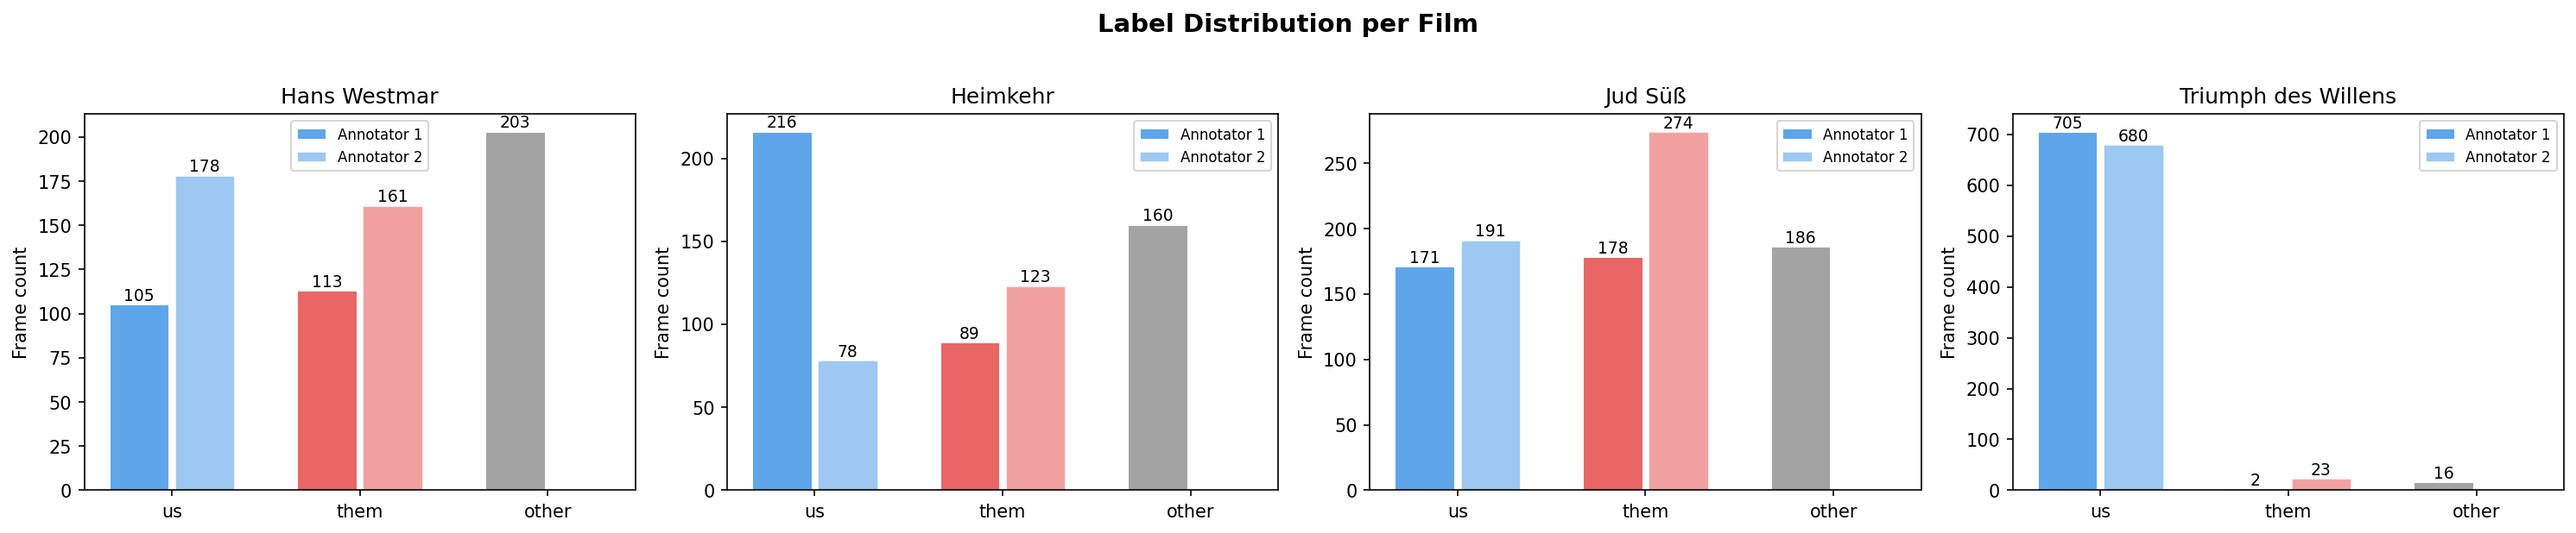
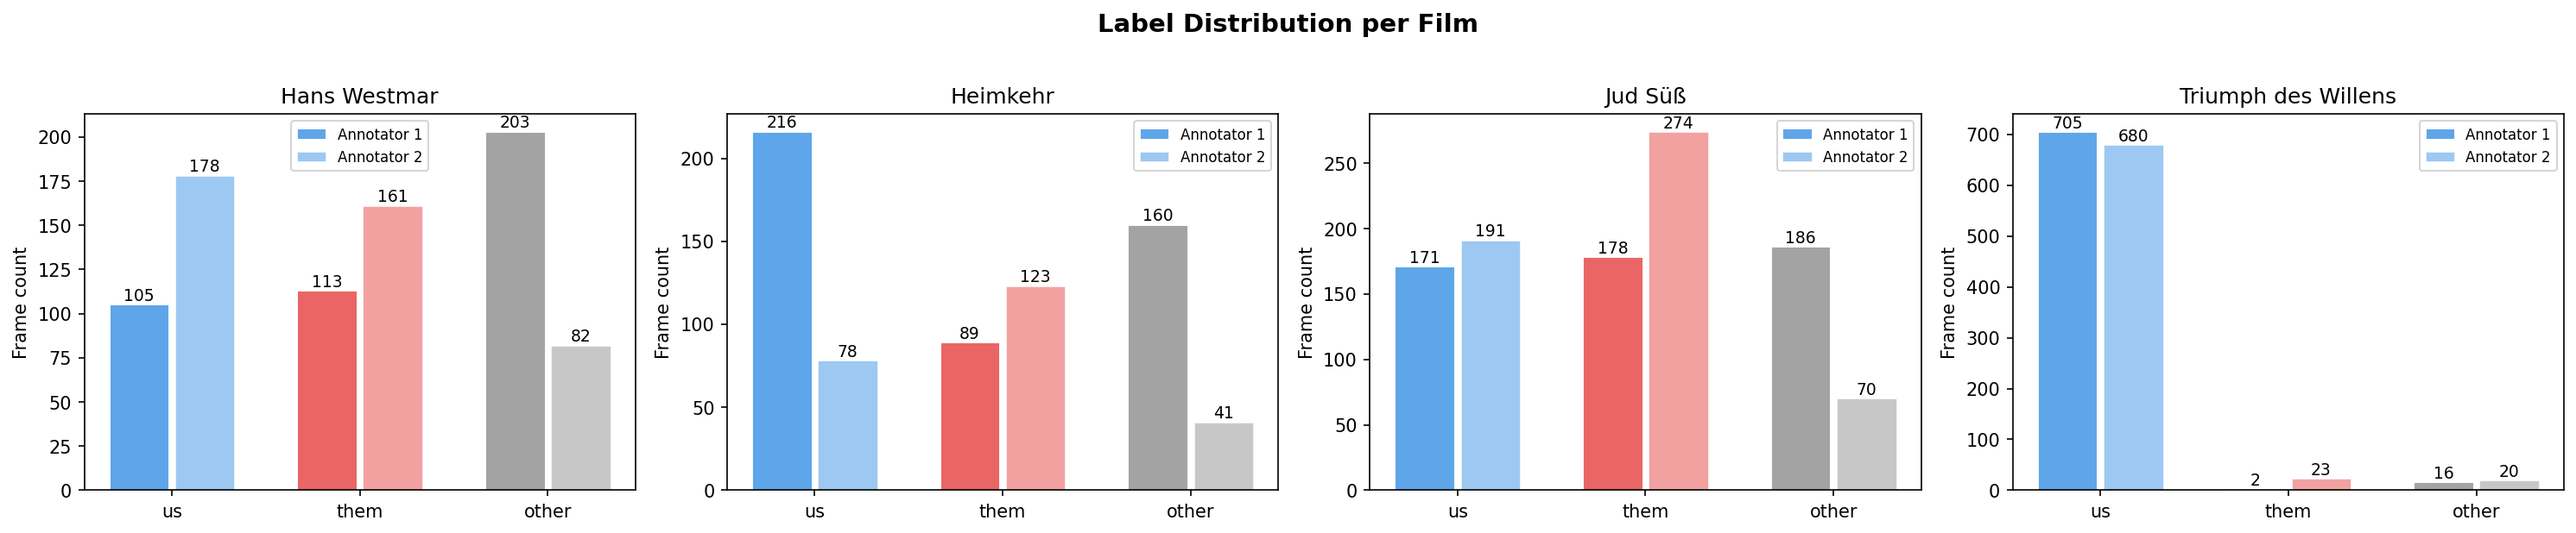
extended annotation statistics by PABAK for better interpretation

diff --git a/scripts/annotation_stats.py b/scripts/annotation_stats.py
@@ -50,10 +50,12 @@ ANNOTATION_FILES = [
 #DEFAULT_ANNOTATOR_NAME = "annotator_2"
 ANNOTATOR_ALIASES = {
     "Kevin" : "Annotator 1",
-    "Felix" : "Annotator 2"
+    "Felix" : "Annotator 2",
+    "annotator_2" : "Annotator 1" #corrects a wrong assignment in the manual annotations
 }
 # Default label for frames with missing labels (applied in-memory only, not saved)
 DEFAULT_LABEL = "other"
+LABELS_TO_REPLACE = ["neutral"]
 
 # Output directory for plots
 OUTPUT_DIR = "../results/annotation_overview"
@@ -85,6 +87,12 @@ def load_annotations(annotation_files):
             n_missing = df["label"].isna().sum()
             df["label"] = df["label"].fillna(DEFAULT_LABEL)
             print(f"Note: filled {n_missing} missing label(s) in '{csv_path}' with '{DEFAULT_LABEL}' (in-memory only)")
+
+        mask = df["label"].isin(LABELS_TO_REPLACE)
+        if mask.any():
+            print(
+                f"Note: replaced {mask.sum()} '{df.loc[mask, 'label'].unique().tolist()}' label(s) in '{csv_path}' with '{DEFAULT_LABEL}' (in-memory only)")
+            df.loc[mask, "label"] = DEFAULT_LABEL
 
         # Extract frame identifier (filename only, so annotators match on the same frame)
         df["frame_id"] = df["frame_path"].apply(lambda p: Path(p).stem)
@@ -187,6 +195,8 @@ def compute_agreement(df, output_dir):
     """Compute and display inter-annotator agreement per film."""
     films = sorted(df["film"].unique())
     results = []
+    all_labels1 = []  # collect for pooled metrics
+    all_labels2 = []
 
     for film in films:
         film_df = df[df["film"] == film]
@@ -209,11 +219,21 @@ def compute_agreement(df, output_dir):
         labels1 = df1.loc[common, "label"].values
         labels2 = df2.loc[common, "label"].values
 
+        # Collect for pooled computation
+        all_labels1.extend(labels1)
+        all_labels2.extend(labels2)
+
         # Cohen's Kappa
         kappa = cohen_kappa_score(labels1, labels2, labels=LABELS)
 
+        # PABAK
+        n = len(labels1)
+        k = len(LABELS)
+        po = np.mean(labels1 == labels2)
+        pabak = (k * po - 1) / (k - 1)
+
         # Percent agreement
-        agreement_pct = np.mean(labels1 == labels2)
+        agreement_pct = po
 
         # Per-label agreement
         per_label = {}
@@ -231,6 +251,7 @@ def compute_agreement(df, output_dir):
             "n_common": len(common),
             "agreement_pct": agreement_pct,
             "cohens_kappa": kappa,
+            "pabak": pabak,
             **{f"agreement_{lbl}": per_label[lbl] for lbl in LABELS},
         })
 
@@ -240,6 +261,27 @@ def compute_agreement(df, output_dir):
 
     if results:
         results_df = pd.DataFrame(results)
+
+        # --- Pooled metrics (all frames across films) ---
+        all_labels1 = np.array(all_labels1)
+        all_labels2 = np.array(all_labels2)
+        pooled_kappa = cohen_kappa_score(all_labels1, all_labels2, labels=LABELS)
+        pooled_po = np.mean(all_labels1 == all_labels2)
+        pooled_pabak = (len(LABELS) * pooled_po - 1) / (len(LABELS) - 1)
+
+        pooled_per_label = {}
+        for lbl in LABELS:
+            mask = (all_labels1 == lbl) | (all_labels2 == lbl)
+            if mask.sum() > 0:
+                pooled_per_label[lbl] = np.mean(all_labels1[mask] == all_labels2[mask])
+            else:
+                pooled_per_label[lbl] = float("nan")
+
+        # --- Average metrics (unweighted mean across films) ---
+        avg_agreement = results_df["agreement_pct"].mean()
+        avg_per_label = {lbl: results_df[f"agreement_{lbl}"].mean() for lbl in LABELS}
+
+        # --- Print results ---
         print("\n" + "=" * 70)
         print("INTER-ANNOTATOR AGREEMENT")
         print("=" * 70)
@@ -249,9 +291,52 @@ def compute_agreement(df, output_dir):
             print(f"  Common frames: {row['n_common']}")
             print(f"  Agreement: {row['agreement_pct']:.1%}")
             print(f"  Cohen's Kappa: {row['cohens_kappa']:.3f}")
+            print(f"  PABAK: {row['pabak']:.3f}")
             for lbl in LABELS:
                 val = row[f"agreement_{lbl}"]
                 print(f"    {lbl}: {val:.1%}" if not np.isnan(val) else f"    {lbl}: n/a")
+
+        print(f"\n  {'─' * 50}")
+        print(f"  POOLED (all {len(all_labels1)} frames)")
+        print(f"  Agreement: {pooled_po:.1%}")
+        print(f"  Cohen's Kappa: {pooled_kappa:.3f}")
+        print(f"  PABAK: {pooled_pabak:.3f}")
+        for lbl in LABELS:
+            val = pooled_per_label[lbl]
+            print(f"    {lbl}: {val:.1%}" if not np.isnan(val) else f"    {lbl}: n/a")
+
+        print(f"\n  {'─' * 50}")
+        print(f"  AVERAGE (unweighted mean over {len(results)} films)")
+        print(f"  Agreement: {avg_agreement:.1%}")
+        for lbl in LABELS:
+            val = avg_per_label[lbl]
+            print(f"    {lbl}: {val:.1%}" if not np.isnan(val) else f"    {lbl}: n/a")
+
+        # --- Save to CSV with summary rows ---
+        pooled_row = {
+            "film": "POOLED",
+            "annotator_1": "",
+            "annotator_2": "",
+            "n_common": len(all_labels1),
+            "agreement_pct": pooled_po,
+            "cohens_kappa": pooled_kappa,
+            "pabak": pooled_pabak,
+            **{f"agreement_{lbl}": pooled_per_label[lbl] for lbl in LABELS},
+        }
+        avg_row = {
+            "film": "AVERAGE",
+            "annotator_1": "",
+            "annotator_2": "",
+            "n_common": "",
+            "agreement_pct": avg_agreement,
+            "cohens_kappa": "",
+            "pabak": "",
+            **{f"agreement_{lbl}": avg_per_label[lbl] for lbl in LABELS},
+        }
+        results_df = pd.concat(
+            [results_df, pd.DataFrame([pooled_row, avg_row])],
+            ignore_index=True,
+        )
 
         csv_path = Path(output_dir) / "agreement_summary.csv"
         results_df.to_csv(csv_path, index=False)
